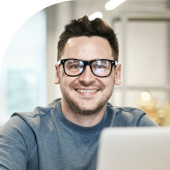
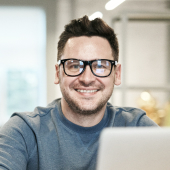
Correction Teachers

Changed region(s): [[0.0, 0.0, 0.4412, 0.1176]]

diff --git a/src/html/chunk/teachers.html b/src/html/chunk/teachers.html
@@ -1,113 +1,119 @@
 <section class="teachers">
 	<div class="container">
 		<div class="teachers__wrap">
-			<div class="teachers__top">
+			<div class="teachers__characteristic">
 				<div class="teachers__inner">
-					<h2 class="teachers__heading title">100+</h2>
+					<h3 class="teachers__heading title">100+</h3>
 					<p class="teachers__desc text">
 						теоретических и&nbsp;практических курсов для разного уровня
 					</p>
 				</div>
 				<div class="teachers__inner">
-					<h2 class="teachers__heading title">3 000</h2>
+					<h3 class="teachers__heading title">3 000</h3>
 					<p class="teachers__desc text">
 						часов видео-лекций и&nbsp;вебинаров от&nbsp;лучших преподавателей
 					</p>
 				</div>
 				<div class="teachers__inner">
-					<h2 class="teachers__heading title">15</h2>
+					<h3 class="teachers__heading title">15</h3>
 					<p class="teachers__desc text">
 						направлений обучения востребованным профессиям
 					</p>
 				</div>
 				<div class="teachers__inner">
-					<h2 class="teachers__heading title">2 000</h2>
+					<h3 class="teachers__heading title">2 000</h3>
 					<p class="teachers__desc text">
 						учеников уже занимаются на&nbsp;нашей платформе
 					</p>
 				</div>
 			</div>
-			<div class="teachers__bottom bottom">
-				<div class="bottom__content">
-					<h1 class="bottom__title title">Учитесь у&nbsp;лучших</h1>
-					<p class="bottom__text text">
+			<div class="teachers__curators curators">
+				<div class="curators__content">
+					<h2 class="curators__title title">Учитесь у&nbsp;лучших</h2>
+					<p class="curators__text text">
 						Наши преподаватели&nbsp;&mdash; профессионалы, которые добились
 						успеха в&nbsp;своей области. Лид-дизайнеры известных студий,
 						маркетологи крупнейших компаний, редакторы популярных медиа:
 						получайте опыт из&nbsp;первых рук, в&nbsp;любое время.
 					</p>
-					<p class="bottom__text text">
+					<p class="curators__text text">
 						Кураторы курсов&nbsp;&mdash; наши лучшие выпускники, будут помогать
 						и&nbsp;поддерживать вас на&nbsp;протяжении всего обучения.
 					</p>
-					<a class="bottom__link link" href="#/">Все преподаватели</a>
+					<a class="curators__link link link-reset" href="#/"
+						>Все преподаватели</a
+					>
 				</div>
-				<div class="bottom__inner">
-					<div class="bottom__photo">
-						<div class="bottom__inner-img">
+				<div class="curators__inner">
+					<div class="curators__photos">
+						<div class="curators__inner-photo">
 							<img
-								class="bottom__img"
+								class="curators__img curators__img--bottom-left"
 								src="img/teachers/designer.jpg"
 								alt="Фотография"
 							/>
 						</div>
-						<span class="bottom__excerpt"
+						<span class="curators__excerpt"
 							>Катя, ведущий дизайнер TailGroupv</span
 						>
 					</div>
-					<div class="bottom__photo">
-						<div class="bottom__inner-img">
+					<div class="curators__photos">
+						<div class="curators__inner-photo">
 							<img
-								class="bottom__img"
+								class="curators__img curators__img--sides"
 								src="img/teachers/marketer.jpg"
 								alt="Фотография"
 							/>
 						</div>
-						<span class="bottom__excerpt"
+						<span class="curators__excerpt"
 							>Марина, маркетолог Headers Market</span
 						>
 					</div>
-					<div class="bottom__photo">
-						<div class="bottom__inner-img">
+					<div class="curators__photos">
+						<div class="curators__inner-photo">
 							<img
-								class="bottom__img"
+								class="curators__img curators__img--bottom-right"
 								src="img/teachers/manager.jpg"
 								alt="Фотография"
 							/>
 						</div>
-						<span class="bottom__excerpt">Сава, PR-менеджер Central Media</span>
+						<span class="curators__excerpt"
+							>Сава, PR-менеджер Central Media</span
+						>
 					</div>
-					<div class="bottom__photo">
-						<div class="bottom__inner-img">
+					<div class="curators__photos">
+						<div class="curators__inner-photo">
 							<img
-								class="bottom__img"
+								class="curators__img curators__img--top-left"
 								src="img/teachers/founder.jpg"
 								alt="Фотография"
 							/>
 						</div>
-						<span class="bottom__excerpt">Паша, основатель LeadCompany</span>
+						<span class="curators__excerpt">Паша, основатель LeadCompany</span>
 					</div>
-					<div class="bottom__photo">
-						<div class="bottom__inner-img">
+					<div class="curators__photos">
+						<div class="curators__inner-photo">
 							<img
-								class="bottom__img"
+								class="curators__img curators__img--sides"
 								src="img/teachers/chief-editor.jpg"
 								alt="Фотография"
 							/>
 						</div>
-						<span class="bottom__excerpt"
+						<span class="curators__excerpt"
 							>Саша, главный редактор Just Journal</span
 						>
 					</div>
-					<div class="bottom__photo">
-						<div class="bottom__inner-img">
+					<div class="curators__photos">
+						<div class="curators__inner-photo">
 							<img
-								class="bottom__img"
+								class="curators__img curators__img--top-right"
 								src="img/teachers/lead-developer.jpg"
 								alt="Фотография"
 							/>
 						</div>
-						<span class="bottom__excerpt">Лёня, ведущий разработчик Ymail</span>
+						<span class="curators__excerpt"
+							>Лёня, ведущий разработчик Ymail</span
+						>
 					</div>
 				</div>
 			</div>

diff --git a/src/sass/chunk/_teachers.sass b/src/sass/chunk/_teachers.sass
@@ -1,7 +1,7 @@
 .teachers
   padding: 120px 0
 
-  &__top
+  &__characteristic
     display: flex
     justify-content: space-between
     align-items: center
@@ -26,7 +26,7 @@
     line-height: 120%
     text-align: center
 
-.bottom
+.curators
   display: flex
   justify-content: space-between
   align-items: center
@@ -59,13 +59,13 @@
     max-width: 570px
     gap: 30px
 
-  &__photo
+  &__photos
     display: flex
     flex-direction: column
     align-items: center
     max-width: 170px
 
-  &__inner-img
+  &__inner-photo
     margin-bottom: 15px
     max-width: 170px
     line-height: 0
@@ -73,6 +73,16 @@
   &__img
     width: 100%
     height: auto
+    &--bottom-left
+      border-radius: 0px 0px 0px 80px
+    &--bottom-right
+      border-radius: 0px 0px 80px 0px
+    &--top-left
+      border-radius: 80px 0px 0px 0px
+    &--top-right
+      border-radius: 0px 80px 0px 0px
+    &--sides
+      border-radius: 80px 0px
 
   &__excerpt
     font-size: 14px
